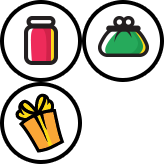
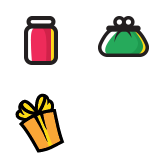
feat(stmIndexBonus): change animation

Changed region(s): [[0.0, 0.0, 1.0, 1.0]]

diff --git a/src/stmIndex/directives/stmIndexBonus/b-bonus.css b/src/stmIndex/directives/stmIndexBonus/b-bonus.css
@@ -2,24 +2,35 @@
 /*==========================================================*/
 .b-bonus {
   position: absolute;
-  width: 82px;
-  height: 82px;
+  width: 74px;
+  height: 74px;
   z-index: 10000;
-  margin-left: -41px;
-  margin-top: -41px;
+  margin-left: -38px;
+  margin-top: -38px;
+  border-radius: 50%;
+  border: 3px solid #000;
+}
+
+.b-bonus-icon {
+  position: absolute;
+  top: 0;
+  left: 0;
+  width: 74px;
+  height: 74px;
+  z-index: 100;
   background: url("asset/i/b-indexBonus/b-indexBonusIcons.png") 0 0 no-repeat;
 }
 
 .b-bonus-pickpoint {
-  background-position: 0 0;
+  background-position: -4px -4px;
 }
 
 .b-bonus-mnogo {
-  background-position: 0 -82px;
+  background-position: -4px -86px;
 }
 
 .b-bonus-sber {
-  background-position: -82px 0;
+  background-position: -86px -4px;
 }
 
 .b-bonus.ng-leave {
@@ -38,7 +49,7 @@
   transition: 0.5s cubic-bezier(0.510, 0.595, 0.320, 1.345) all;
   opacity: 0;
   -webkit-transform: scale(0);
-  transform: scale(0);
+  transform: scale(0);  
 }
 
 .b-bonus.ng-enter-active {
@@ -55,16 +66,16 @@
 
 
 .b-bonus .spinner-css {
-  margin: -38px 0 0 -38px;
-  height: 76px;
-  width: 76px;
+  margin: -40px 0 0 -40px;
+  height: 80px;
+  width: 80px;
   top: 50%;
   left: 50%;
   position: absolute;
+  z-index: 10;
   border-radius: 999px;
   -webkit-border-radius: 999px;
   -moz-border-radius: 999px;
-  opacity: 0.3;
 }
 .b-bonus .spinner-css:after {
   content: "";
@@ -73,25 +84,25 @@
   height: 0px;
   left: 0px;
   top: 0px;
-  margin: 38px;
-  background: #ffffff;
+  margin: 40px;
+  background: #ffd731;
   opacity: 1;
   border-radius: 999px;
   -webkit-border-radius: 999px;
   -moz-border-radius: 999px;
 }
 .b-bonus .spinner-css .side {
-  height: 76px;
-  width: 38px;
+  height: 80px;
+  width: 40px;
   position: absolute;
   overflow: hidden;
   top: 0;
 }
 .b-bonus .spinner-css .side > .fill {
   position: absolute;
-  width: 38px;
-  height: 76px;
-  background: #0099cc;
+  width: 40px;
+  height: 80px;
+  background: #000;
   border-radius: 999px;
   -webkit-border-radius: 999px;
   -moz-border-radius: 999px;
@@ -101,14 +112,14 @@
   -o-animation: cssSpinnerRight 10s infinite linear;
 }
 .b-bonus .spinner-css .side.sp_right {
-  left: 38px;
+  left: 40px;
   border-radius: 0px 999px 999px 0px;
   -webkit-border-radius: 0px 999px 999px 0px;
   -moz-border-radius: 0px 999px 999px 0px;
 }
 .b-bonus .spinner-css .side.sp_right > .fill {
   right: 0;
-  border-right: 38px solid #ffffff;
+  border-right: 40px solid #ffd731;
 }
 .b-bonus .spinner-css .side.sp_left {
   left: 0;
@@ -118,7 +129,7 @@
 }
 .b-bonus .spinner-css .side.sp_left > .fill {
   left: 0;
-  border-left: 38px solid #ffffff;
+  border-left: 40px solid #ffd731;
   animation: cssSpinnerLeft 10s infinite linear;
   -webkit-animation: cssSpinnerLeft 10s infinite linear;
   -moz-animation: cssSpinnerLeft 10s infinite linear;

diff --git a/src/stmIndex/directives/stmIndexBonus/stmIndexBonus.js b/src/stmIndex/directives/stmIndexBonus/stmIndexBonus.js
@@ -23,9 +23,10 @@
             <div class="btn" ng-click="show()">Show</div>
             <div class="b-sample" >
               <div ng-repeat="bonus in bonuses" stm-index-bonus="bonusId{{$index}}" type="{{bonus.type}}" position="{{bonus.pos}}" timeout="{{bonus.timeout}}"></div>
-              <div stm-index-bonus="bonusId3" type="mnogo" position="[350, 50]" show="false"></div>
+              <div stm-index-bonus="bonusId3" type="mnogo" position="[350, 50]" ></div>
               <div stm-index-bonus="bonusId4" type="sber" position="[450, 50]" timeout="20"></div>
               <div stm-index-bonus="bonusId5" type="pickpoint" position="[550, 50]" timeout="20" show="false"></div>
+              <div stm-index-bonus="bonusId6" type="pickpoint" position="[650, 50]" show="false"></div>
             <div>
         </div>
         
@@ -35,7 +36,8 @@
           position:relative;
           z-index:1;
           height: 200px;
-          width: 400px;
+          width: 600px;
+          background: #ffd731;
       }
       </file>
       <file name="controller.js">
@@ -92,7 +94,10 @@ angular.module('stmIndex').directive('stmIndexBonus', function(){
             });
             $scope.$watch('timeout', function(timeout){
                 var duration = $scope.$eval($scope.timeout) || timeout;
-                $scope.duration = 2 * parseInt(duration, 10);                
+                $scope.duration = 2 * parseInt(duration, 10);
+                if($scope.duration) {
+                    $scope.css.border = 'none';
+                }
             });
             $scope.$watch('show', function(show){
               $scope.hide = ($scope.$eval(show) === false) ? true : false;

diff --git a/src/stmIndex/directives/stmIndexBonus/template.html b/src/stmIndex/directives/stmIndexBonus/template.html
@@ -1,5 +1,5 @@
 <!-- Bonus -->
-<div ng-if="!hide" class="b-bonus" ng-class="'b-bonus-'+ type" ng-style="css">
+<div ng-if="!hide" class="b-bonus" ng-style="css">
     <div class="spinner-css" ng-show="spinnerEnabled">
       <span class="side sp_left">
         <span class="fill" ng-style="spinnerStyle"></span>
@@ -8,5 +8,6 @@
         <span class="fill" ng-style="spinnerStyle"></span>
       </span>
     </div>
+    <div ng-class="'b-bonus-icon b-bonus-'+ type"></div>
 </div>
 <!-- End Bonus -->
